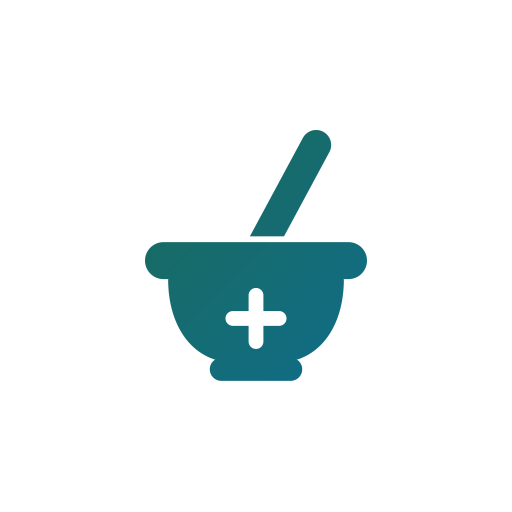
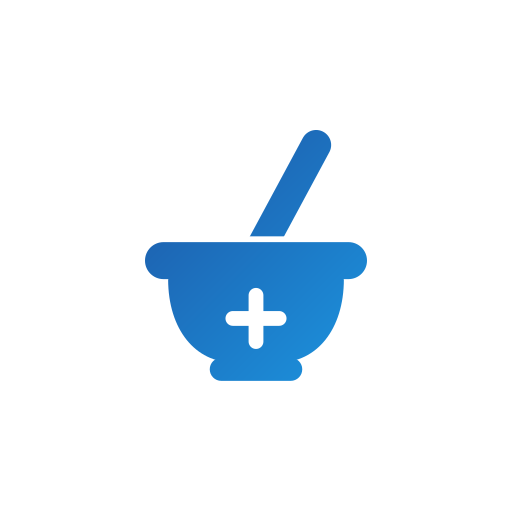
Add files via upload

Changed region(s): [[0.2812, 0.25, 0.7188, 0.75]]

diff --git a/mostrador.html b/mostrador.html
@@ -5,7 +5,7 @@
 <meta name="viewport" content="width=device-width, initial-scale=1, viewport-fit=cover">
 <title>Control de peso, Farmacia Gil Solano y Farmacia Caribe</title>
 <meta name="robots" content="noindex">
-<meta name="theme-color" content="#1B6B54">
+<meta name="theme-color" content="#1D4E9E">
 <meta name="apple-mobile-web-app-title" content="Mostrador">
 <link rel="manifest" href="manifest-mostrador.webmanifest">
 <link rel="icon" type="image/png" sizes="32x32" href="favicon-mostrador-32.png">
@@ -15,32 +15,32 @@
 <link href="https://fonts.googleapis.com/css2?family=Atkinson+Hyperlegible:wght@400;700&family=Bricolage+Grotesque:opsz,wght@12..96,500..800&display=swap" rel="stylesheet">
 <style>
 :root{
-  --bg:#F2F5F3; --surface:#FFFFFF; --ink:#14261F; --ink-2:#4A5E56; --line:#D3DCD7;
+  --bg:#F2F5F9; --surface:#FFFFFF; --ink:#14202E; --ink-2:#4A5A6C; --line:#D3DAE4;
   --warn:#7A4F00; --warn-soft:#FBEFD0; --alert:#A3301E; --alert-soft:#FADED8;
-  --brand:#1B6B54; --brand-fg:#FFFFFF; --brand-soft:#DFF0E9; --brand-ink:#14503F;
-  --tile:#1B6B54; --tile-fg:#FFFFFF;
-  --shadow:0 -12px 40px rgba(12,24,20,.28);
+  --brand:#1D4E9E; --brand-fg:#FFFFFF; --brand-soft:#E1EAF8; --brand-ink:#163D7D;
+  --tile:#1D4E9E; --tile-fg:#FFFFFF; --tile-txt:#FFFFFF; --tile-dim:rgba(255,255,255,.65);
+  --shadow:0 -12px 40px rgba(10,18,30,.28);
   --f-display:"Bricolage Grotesque","Trebuchet MS","Segoe UI",system-ui,sans-serif;
   --f-text:"Atkinson Hyperlegible","Segoe UI",Roboto,system-ui,sans-serif;
 }
-:root[data-brand="caribe"]{ --brand:#0F6C8F; --brand-soft:#DDEEF6; --brand-ink:#0B516C; --tile:#0F6C8F; }
+:root[data-brand="caribe"]{ --brand:#1C9CE6; --brand-fg:#04243A; --brand-soft:#DDF0FC; --brand-ink:#0B5F91; --tile:#1C9CE6; --tile-txt:#04243A; --tile-dim:rgba(4,36,58,.5); }
 
 @media (prefers-color-scheme: dark){
   :root:not([data-theme="light"]){
-    --bg:#0E1815; --surface:#16231F; --ink:#E7EFEB; --ink-2:#9EB1A9; --line:#2B3C36;
+    --bg:#0D131B; --surface:#16202C; --ink:#E7EDF5; --ink-2:#9EADBF; --line:#2A3748;
     --warn:#F2C76E; --warn-soft:#3A2E12; --alert:#F3A091; --alert-soft:#40201A;
-    --brand:#62C9A9; --brand-fg:#0B1512; --brand-soft:#17342C; --brand-ink:#8ADCC2;
+    --brand:#86ADF2; --brand-fg:#08111C; --brand-soft:#172540; --brand-ink:#AFC8F7;
     --shadow:0 -12px 40px rgba(0,0,0,.55);
   }
-  :root:not([data-theme="light"])[data-brand="caribe"]{ --brand:#6CC3E6; --brand-soft:#14303D; --brand-ink:#97D6F0; }
+  :root:not([data-theme="light"])[data-brand="caribe"]{ --brand:#7CCBF7; --brand-soft:#14303D; --brand-ink:#A9DCF8; }
 }
 :root[data-theme="dark"]{
-  --bg:#0E1815; --surface:#16231F; --ink:#E7EFEB; --ink-2:#9EB1A9; --line:#2B3C36;
+  --bg:#0D131B; --surface:#16202C; --ink:#E7EDF5; --ink-2:#9EADBF; --line:#2A3748;
   --warn:#F2C76E; --warn-soft:#3A2E12; --alert:#F3A091; --alert-soft:#40201A;
-  --brand:#62C9A9; --brand-fg:#0B1512; --brand-soft:#17342C; --brand-ink:#8ADCC2;
+  --brand:#86ADF2; --brand-fg:#08111C; --brand-soft:#172540; --brand-ink:#AFC8F7;
   --shadow:0 -12px 40px rgba(0,0,0,.55);
 }
-:root[data-theme="dark"][data-brand="caribe"]{ --brand:#6CC3E6; --brand-soft:#14303D; --brand-ink:#97D6F0; }
+:root[data-theme="dark"][data-brand="caribe"]{ --brand:#7CCBF7; --brand-soft:#14303D; --brand-ink:#A9DCF8; }
 
 *{box-sizing:border-box}
 html{-webkit-text-size-adjust:100%}
@@ -179,7 +179,7 @@ textarea.inp{min-height:6.5rem;resize:vertical;line-height:1.4}
 .visita .v-del{justify-self:end;background:none;border:0;padding:.35rem 0 .35rem .5rem;min-height:2.2rem;color:var(--ink-2);font-size:.875rem;text-decoration:underline}
 
 /* Guía */
-.guia-cab{display:flex;align-items:center;gap:.8rem;padding:1rem;border-radius:.9rem;background:var(--tile);color:var(--tile-fg)}
+.guia-cab{display:flex;align-items:center;gap:.8rem;padding:1rem;border-radius:.9rem;background:var(--tile);color:var(--tile-txt)}
 .guia-cab .tile{background:none;width:3rem;height:3rem}
 .guia-cab .tile svg{width:3rem;height:3rem}
 .guia-cab small{display:block;font-size:.875rem;opacity:.85}
@@ -209,7 +209,7 @@ textarea.inp{min-height:6.5rem;resize:vertical;line-height:1.4}
 .pila{display:grid;gap:.55rem}
 
 /* Hoja inferior */
-.backdrop{position:fixed;inset:0;z-index:20;background:rgba(8,16,13,.55);display:flex;align-items:flex-end;justify-content:center}
+.backdrop{position:fixed;inset:0;z-index:20;background:rgba(8,13,22,.55);display:flex;align-items:flex-end;justify-content:center}
 .sheet{width:100%;max-width:30rem;max-height:92vh;max-height:92dvh;overflow:auto;background:var(--surface);border-radius:1.25rem 1.25rem 0 0;padding:1rem 1rem calc(1.25rem + env(safe-area-inset-bottom));box-shadow:var(--shadow);animation:sube .22s ease-out}
 .sheet-cab{display:flex;align-items:flex-start;justify-content:space-between;gap:.75rem}
 .sheet-cab h2{font-family:var(--f-display);font-size:1.35rem;font-weight:700;letter-spacing:-.015em;line-height:1.15;padding-top:.3rem}
@@ -252,7 +252,9 @@ textarea.inp{min-height:6.5rem;resize:vertical;line-height:1.4}
     return String(x % 10000).padStart(4, '0');
   }
   const BRANDS = { gil: 'Gil Solano', caribe: 'Caribe' };
-  const RGB = { gil: [27, 107, 84], caribe: [15, 108, 143] };
+  const RGB = { gil: [29, 78, 158], caribe: [28, 156, 230] };          /* franja y viñetas */
+  const RGB_TIT = { gil: [22, 61, 125], caribe: [11, 95, 145] };      /* títulos, un tono más oscuro para que se lean */
+  const RGB_TXT = { gil: [255, 255, 255], caribe: [4, 36, 58] };      /* texto sobre la franja */
   const MEDS = {
     mounjaro: { nombre: 'Mounjaro (tirzepatida)', corto: 'Mounjaro', inicio: 2.5, gracia: 4, dosis: [2.5, 5, 7.5, 10, 12.5, 15] },
     ozempic: { nombre: 'Ozempic (semaglutida)', corto: 'Ozempic', inicio: 0.25, gracia: 5, dosis: [0.25, 0.5, 1, 2] },
@@ -768,7 +770,7 @@ textarea.inp{min-height:6.5rem;resize:vertical;line-height:1.4}
       '<input type="file" id="archivo" accept=".json,application/json" hidden>' +
       (state.clientes.some(c => c.demo) ? '<button class="btn btn-s" data-act="borrar-ejemplos">Borrar clientes de ejemplo</button>' : '<button class="btn btn-s" data-act="cargar-ejemplos">Cargar clientes de ejemplo</button>') +
       '<button class="btn btn-d" data-act="borrar-todo">Borrar todos los datos</button></div></div>' +
-      '<p class="muted" style="margin-top:1.4rem">Versión 3, del 19 de setiembre de 2026</p></section>';
+      '<p class="muted" style="margin-top:1.4rem">Versión 4, del 19 de setiembre de 2026</p></section>';
   }
 
   function render() {
@@ -992,17 +994,17 @@ textarea.inp{min-height:6.5rem;resize:vertical;line-height:1.4}
     const doc = new window.jspdf.jsPDF({ unit: 'pt', format: 'letter' });
     const W = 612, H = 792, M = 46, ancho = W - 2 * M;
     const b = state.ajustes.farmacia, rgb = RGB[b], a = state.ajustes;
-    const TINTA = [24, 40, 33], GRIS = [88, 104, 97];
+    const TINTA = [20, 32, 46], GRIS = [80, 94, 110];
     const F = 10.5 * k, LH = 14.2 * k;
     doc.setFillColor(rgb[0], rgb[1], rgb[2]); doc.rect(0, 0, W, 80, 'F');
     logoPDF(doc, M, 15, 50, rgb);
-    doc.setTextColor(255, 255, 255);
+    doc.setTextColor(RGB_TXT[b][0], RGB_TXT[b][1], RGB_TXT[b][2]);
     doc.setFont('helvetica', 'normal'); doc.setFontSize(11); doc.text('Farmacia', M + 64, 35);
     doc.setFont('helvetica', 'bold'); doc.setFontSize(23); doc.text(BRANDS[b], M + 64, 58);
     if (a.tel[b]) { doc.setFont('helvetica', 'normal'); doc.setFontSize(11); doc.text('Tel. ' + a.tel[b], W - M, 48, { align: 'right' }); }
     let y = 110;
     const salto = alto => { if (y + alto > H - 38) { doc.addPage(); y = 56; } };
-    const titulo = t => { salto(40 * k); y += 10 * k; doc.setFont('helvetica', 'bold'); doc.setFontSize(13.5 * k); doc.setTextColor(rgb[0], rgb[1], rgb[2]); doc.text(t, M, y); y += 16 * k; };
+    const titulo = t => { salto(40 * k); y += 10 * k; doc.setFont('helvetica', 'bold'); doc.setFontSize(13.5 * k); doc.setTextColor(RGB_TIT[b][0], RGB_TIT[b][1], RGB_TIT[b][2]); doc.text(t, M, y); y += 16 * k; };
     const sub = t => { salto(28 * k); y += 3 * k; doc.setFont('helvetica', 'bold'); doc.setFontSize(F); doc.setTextColor(TINTA[0], TINTA[1], TINTA[2]); doc.text(t, M, y); y += 13.5 * k; };
     const parrafo = (t, o) => {
       o = o || {}; const size = (o.size || 10.5) * k, lh = size * 1.36;
@@ -1025,7 +1027,7 @@ textarea.inp{min-height:6.5rem;resize:vertical;line-height:1.4}
     GUIA.rutina.forEach(r => {
       salto(16 * k); doc.setFont('helvetica', 'normal'); doc.setFontSize(F); doc.setTextColor(TINTA[0], TINTA[1], TINTA[2]);
       doc.text(r[0], M + 14, y); doc.setTextColor(GRIS[0], GRIS[1], GRIS[2]); doc.text(r[1], W - M, y, { align: 'right' });
-      doc.setDrawColor(211, 220, 215); doc.setLineWidth(.6); doc.line(M + 14, y + 4.5 * k, W - M, y + 4.5 * k); y += 16 * k;
+      doc.setDrawColor(211, 218, 228); doc.setLineWidth(.6); doc.line(M + 14, y + 4.5 * k, W - M, y + 4.5 * k); y += 16 * k;
     });
     y += 4 * k; GUIA.ejercicioNotas.forEach(t => vineta(t));
     titulo('Cuándo consultar al médico');
@@ -1044,7 +1046,7 @@ textarea.inp{min-height:6.5rem;resize:vertical;line-height:1.4}
       return yy;
     };
     y = Math.max(columna('De inmediato, si presenta', GUIA.alarma, M, [163, 48, 30]), columna('Avísele también si', GUIA.avise, M + cw + gap, rgb));
-    y += 5 * k; salto(36 * k); doc.setDrawColor(211, 220, 215); doc.setLineWidth(.8); doc.line(M, y, W - M, y); y += 13 * k;
+    y += 5 * k; salto(36 * k); doc.setDrawColor(211, 218, 228); doc.setLineWidth(.8); doc.line(M, y, W - M, y); y += 13 * k;
     parrafo(GUIA.pie, { size: 9, color: GRIS });
     return doc;
   }
@@ -1080,13 +1082,13 @@ textarea.inp{min-height:6.5rem;resize:vertical;line-height:1.4}
     const W = 612, M = 56, b = state.ajustes.farmacia, rgb = RGB[b];
     doc.setFillColor(rgb[0], rgb[1], rgb[2]); doc.rect(0, 0, W, 150, 'F');
     logoPDF(doc, M, 33, 84, rgb);
-    doc.setTextColor(255, 255, 255); doc.setFont('helvetica', 'normal'); doc.setFontSize(15); doc.text('Farmacia', M + 106, 66);
+    doc.setTextColor(RGB_TXT[b][0], RGB_TXT[b][1], RGB_TXT[b][2]); doc.setFont('helvetica', 'normal'); doc.setFontSize(15); doc.text('Farmacia', M + 106, 66);
     doc.setFont('helvetica', 'bold'); doc.setFontSize(36); doc.text(BRANDS[b], M + 106, 104);
-    doc.setTextColor(24, 40, 33); doc.setFontSize(31); doc.text('Lleve su control de peso', M, 212); doc.text('en el celular', M, 248);
-    doc.setFont('helvetica', 'normal'); doc.setFontSize(14); doc.setTextColor(74, 94, 86);
+    doc.setTextColor(20, 32, 46); doc.setFontSize(31); doc.text('Lleve su control de peso', M, 212); doc.text('en el celular', M, 248);
+    doc.setFont('helvetica', 'normal'); doc.setFontSize(14); doc.setTextColor(74, 90, 108);
     doc.text(doc.splitTextToSize('Carné con sellos por cada control semanal, hábitos del día, su progreso y una guía de alimentación y ejercicio.', W - 2 * M), M, 278);
     const q = qrMatriz(url), n = q.getModuleCount(), lado = 290, x0 = (W - lado) / 2, y0 = 330, u = lado / (n + 6);
-    doc.setDrawColor(211, 220, 215); doc.setLineWidth(1); doc.setFillColor(255, 255, 255); doc.roundedRect(x0, y0, lado, lado, 10, 10, 'FD');
+    doc.setDrawColor(211, 218, 228); doc.setLineWidth(1); doc.setFillColor(255, 255, 255); doc.roundedRect(x0, y0, lado, lado, 10, 10, 'FD');
     doc.setFillColor(0, 0, 0);
     for (let r = 0; r < n; r++) {
       let c = 0;
@@ -1096,10 +1098,10 @@ textarea.inp{min-height:6.5rem;resize:vertical;line-height:1.4}
         doc.rect(x0 + (c + 3) * u, y0 + (r + 3) * u, (f - c) * u + 0.2, u + 0.2, 'F'); c = f;
       }
     }
-    doc.setTextColor(24, 40, 33); doc.setFontSize(14);
+    doc.setTextColor(20, 32, 46); doc.setFontSize(14);
     const pasos = ['1. Abra la cámara de su celular y apunte al código.', '2. Toque el enlace que aparece.', '3. Elija Farmacia ' + BRANDS[b] + ' y escriba su nombre.'];
     pasos.forEach((t, k) => doc.text(t, M, 664 + k * 22));
-    doc.setFontSize(9.5); doc.setTextColor(88, 104, 97);
+    doc.setFontSize(9.5); doc.setTextColor(80, 94, 110);
     doc.text('Programa de acompañamiento para personas con tratamiento indicado por su médico.', M, 748);
     doc.text(doc.splitTextToSize(url, W - 2 * M)[0], M, 762);
     return doc;

diff --git a/index.html b/index.html
@@ -5,7 +5,7 @@
 <meta name="viewport" content="width=device-width, initial-scale=1, viewport-fit=cover">
 <title>Mi control de peso, Farmacia Gil Solano y Farmacia Caribe</title>
 <meta name="robots" content="noindex">
-<meta name="theme-color" content="#1B6B54">
+<meta name="theme-color" content="#1D4E9E">
 <meta name="apple-mobile-web-app-title" content="Mi control">
 <link rel="manifest" href="manifest.webmanifest">
 <link rel="icon" type="image/png" sizes="32x32" href="favicon-32.png">
@@ -15,33 +15,33 @@
 <link href="https://fonts.googleapis.com/css2?family=Atkinson+Hyperlegible:wght@400;700&family=Bricolage+Grotesque:opsz,wght@12..96,500..800&display=swap" rel="stylesheet">
 <style>
 :root{
-  --bg:#F2F5F3; --surface:#FFFFFF; --ink:#14261F; --ink-2:#4A5E56; --line:#D3DCD7;
+  --bg:#F2F5F9; --surface:#FFFFFF; --ink:#14202E; --ink-2:#4A5A6C; --line:#D3DAE4;
   --warn:#7A4F00; --warn-soft:#FBEFD0; --alert:#A3301E; --alert-soft:#FADED8;
-  --brand:#1B6B54; --brand-fg:#FFFFFF; --brand-soft:#DFF0E9; --brand-ink:#14503F;
-  --tile:#1B6B54; --tile-2:#145241; --tile-fg:#FFFFFF;
+  --brand:#1D4E9E; --brand-fg:#FFFFFF; --brand-soft:#E1EAF8; --brand-ink:#163D7D;
+  --tile:#1D4E9E; --tile-2:#153A78; --tile-fg:#FFFFFF; --tile-txt:#FFFFFF; --tile-dim:rgba(255,255,255,.65);
   --veg:#2F855A; --prot:#B7602A; --har:#D9B23C;
-  --shadow:0 -12px 40px rgba(12,24,20,.28);
+  --shadow:0 -12px 40px rgba(10,18,30,.28);
   --f-display:"Bricolage Grotesque","Trebuchet MS","Segoe UI",system-ui,sans-serif;
   --f-text:"Atkinson Hyperlegible","Segoe UI",Roboto,system-ui,sans-serif;
 }
-:root[data-brand="caribe"]{ --brand:#0F6C8F; --brand-soft:#DDEEF6; --brand-ink:#0B516C; --tile:#0F6C8F; --tile-2:#0A526E; }
+:root[data-brand="caribe"]{ --brand:#1C9CE6; --brand-fg:#04243A; --brand-soft:#DDF0FC; --brand-ink:#0B5F91; --tile:#1C9CE6; --tile-2:#1487CC; --tile-txt:#04243A; --tile-dim:rgba(4,36,58,.5); }
 
 @media (prefers-color-scheme: dark){
   :root:not([data-theme="light"]){
-    --bg:#0E1815; --surface:#16231F; --ink:#E7EFEB; --ink-2:#9EB1A9; --line:#2B3C36;
+    --bg:#0D131B; --surface:#16202C; --ink:#E7EDF5; --ink-2:#9EADBF; --line:#2A3748;
     --warn:#F2C76E; --warn-soft:#3A2E12; --alert:#F3A091; --alert-soft:#40201A;
-    --brand:#62C9A9; --brand-fg:#0B1512; --brand-soft:#17342C; --brand-ink:#8ADCC2;
+    --brand:#86ADF2; --brand-fg:#08111C; --brand-soft:#172540; --brand-ink:#AFC8F7;
     --shadow:0 -12px 40px rgba(0,0,0,.55);
   }
-  :root:not([data-theme="light"])[data-brand="caribe"]{ --brand:#6CC3E6; --brand-soft:#14303D; --brand-ink:#97D6F0; }
+  :root:not([data-theme="light"])[data-brand="caribe"]{ --brand:#7CCBF7; --brand-soft:#14303D; --brand-ink:#A9DCF8; }
 }
 :root[data-theme="dark"]{
-  --bg:#0E1815; --surface:#16231F; --ink:#E7EFEB; --ink-2:#9EB1A9; --line:#2B3C36;
+  --bg:#0D131B; --surface:#16202C; --ink:#E7EDF5; --ink-2:#9EADBF; --line:#2A3748;
   --warn:#F2C76E; --warn-soft:#3A2E12; --alert:#F3A091; --alert-soft:#40201A;
-  --brand:#62C9A9; --brand-fg:#0B1512; --brand-soft:#17342C; --brand-ink:#8ADCC2;
+  --brand:#86ADF2; --brand-fg:#08111C; --brand-soft:#172540; --brand-ink:#AFC8F7;
   --shadow:0 -12px 40px rgba(0,0,0,.55);
 }
-:root[data-theme="dark"][data-brand="caribe"]{ --brand:#6CC3E6; --brand-soft:#14303D; --brand-ink:#97D6F0; }
+:root[data-theme="dark"][data-brand="caribe"]{ --brand:#7CCBF7; --brand-soft:#14303D; --brand-ink:#A9DCF8; }
 
 *{box-sizing:border-box}
 html{-webkit-text-size-adjust:100%;font-size:106.25%}
@@ -121,12 +121,12 @@ textarea.inp{min-height:7rem;resize:vertical;line-height:1.35;font-size:.85rem;w
 .pasos h2{font-family:var(--f-display);font-size:1.15rem;font-weight:600;margin-bottom:.3rem}
 .pasos li{display:flex;gap:.75rem;align-items:flex-start;margin-top:.7rem}
 .pasos li i{flex:none;width:1.9rem;height:1.9rem;border-radius:50%;background:var(--brand);color:var(--brand-fg);display:grid;place-items:center;font-style:normal;font-weight:700;font-family:var(--f-display)}
-.franja{margin-top:1rem;display:block;width:100%;padding:.8rem .95rem .9rem;border:0;border-radius:1rem;background:linear-gradient(160deg,var(--tile),var(--tile-2));color:var(--tile-fg);text-align:left}
+.franja{margin-top:1rem;display:block;width:100%;padding:.8rem .95rem .9rem;border:0;border-radius:1rem;background:linear-gradient(160deg,var(--tile),var(--tile-2));color:var(--tile-txt);text-align:left}
 .franja-t{display:flex;justify-content:space-between;align-items:baseline;gap:.6rem}
 .franja-t b{font-family:var(--f-display);font-size:1.15rem}
 .franja-t em{font-style:normal;font-size:.92rem;opacity:.9}
 .franja-s{display:grid;grid-template-columns:repeat(4,1fr);gap:.6rem;margin-top:.7rem}
-.franja-s i{display:grid;place-items:center;width:100%;max-width:3.4rem;aspect-ratio:1;margin:0 auto;border-radius:50%;border:2px dashed rgba(255,255,255,.6);font-style:normal;font-family:var(--f-display);font-weight:600;color:rgba(255,255,255,.75)}
+.franja-s i{display:grid;place-items:center;width:100%;max-width:3.4rem;aspect-ratio:1;margin:0 auto;border-radius:50%;border:2px dashed var(--tile-dim);font-style:normal;font-family:var(--f-display);font-weight:600;color:var(--tile-dim)}
 .franja-s i.s{background:var(--tile-fg);border:0;transform:rotate(-8deg)}
 .franja-s i.s svg{width:68%;height:68%}
 
@@ -213,7 +213,7 @@ textarea.inp{min-height:7rem;resize:vertical;line-height:1.35;font-size:.85rem;w
 .hablada{margin-top:1.4rem;padding:.85rem 1rem;border:1.5px dashed var(--ink-2);border-radius:.5rem;background:var(--surface);font-size:.92rem}
 
 /* Carné */
-.carnet{position:relative;overflow:hidden;border-radius:1.1rem;padding:1.1rem 1.1rem 1.2rem;background:linear-gradient(160deg,var(--tile),var(--tile-2));color:var(--tile-fg)}
+.carnet{position:relative;overflow:hidden;border-radius:1.1rem;padding:1.1rem 1.1rem 1.2rem;background:linear-gradient(160deg,var(--tile),var(--tile-2));color:var(--tile-txt)}
 .carnet-cab{display:flex;align-items:center;gap:.7rem}
 .carnet-cab svg{width:2.6rem;height:2.6rem;flex:none}
 .carnet-cab small{display:block;font-size:.8rem;opacity:.85}
@@ -222,7 +222,7 @@ textarea.inp{min-height:7rem;resize:vertical;line-height:1.35;font-size:.85rem;w
 .carnet-sub{font-size:.92rem;opacity:.9;margin-top:.15rem}
 .sellos{display:grid;grid-template-columns:repeat(4,1fr);gap:.6rem;margin-top:1.1rem}
 .sello{text-align:center;font-size:.8rem}
-.sello i{display:grid;place-items:center;width:100%;aspect-ratio:1;max-width:4.2rem;margin:0 auto .3rem;border-radius:50%;border:2px dashed rgba(255,255,255,.6);font-style:normal;font-family:var(--f-display);font-size:1.2rem;font-weight:600;color:rgba(255,255,255,.75)}
+.sello i{display:grid;place-items:center;width:100%;aspect-ratio:1;max-width:4.2rem;margin:0 auto .3rem;border-radius:50%;border:2px dashed var(--tile-dim);font-style:normal;font-family:var(--f-display);font-size:1.2rem;font-weight:600;color:var(--tile-dim)}
 .sello.ok i{background:var(--tile-fg);border:0;transform:rotate(-8deg)}
 .sello.ok i svg{width:68%;height:68%}
 .sello.nuevo i{animation:sellar .5s cubic-bezier(.2,1.6,.4,1)}
@@ -243,7 +243,7 @@ textarea.inp{min-height:7rem;resize:vertical;line-height:1.35;font-size:.85rem;w
 .mas .pila{padding:0 1rem 1rem}
 
 /* Hoja inferior */
-.backdrop{position:fixed;inset:0;z-index:20;background:rgba(8,16,13,.55);display:flex;align-items:flex-end;justify-content:center}
+.backdrop{position:fixed;inset:0;z-index:20;background:rgba(8,13,22,.55);display:flex;align-items:flex-end;justify-content:center}
 .sheet{width:100%;max-width:30rem;max-height:94vh;max-height:94dvh;overflow:auto;background:var(--surface);border-radius:1.25rem 1.25rem 0 0;padding:1rem 1rem calc(1.25rem + env(safe-area-inset-bottom));box-shadow:var(--shadow);animation:sube .22s ease-out}
 .sheet-cab{display:flex;align-items:flex-start;justify-content:space-between;gap:.75rem}
 .sheet-cab h2{font-family:var(--f-display);font-size:1.3rem;font-weight:700;letter-spacing:-.015em;line-height:1.15;padding-top:.35rem}
@@ -842,7 +842,7 @@ textarea.inp{min-height:7rem;resize:vertical;line-height:1.35;font-size:.85rem;w
       '<button class="btn btn-s" data-act="respaldo">Guardar una copia de mis datos</button>' +
       '<button class="btn btn-s" data-act="restaurar-abrir">Recuperar una copia</button>' +
       '<button class="btn btn-d" data-act="borrar-todo">Borrar todos mis datos</button></div></details>' +
-      '<p class="muted" style="margin-top:.8rem">' + (state.nube && state.nube.acepta ? 'Sus datos están en este teléfono y, con su permiso, en la copia de la farmacia.' : 'Sus datos están solo en este teléfono. Si lo cambia, guarde antes una copia.') + '</p><p class="muted" style="margin-top:.4rem">Versión 3</p></section>';
+      '<p class="muted" style="margin-top:.8rem">' + (state.nube && state.nube.acepta ? 'Sus datos están en este teléfono y, con su permiso, en la copia de la farmacia.' : 'Sus datos están solo en este teléfono. Si lo cambia, guarde antes una copia.') + '</p><p class="muted" style="margin-top:.4rem">Versión 4</p></section>';
     return h;
   }
 
